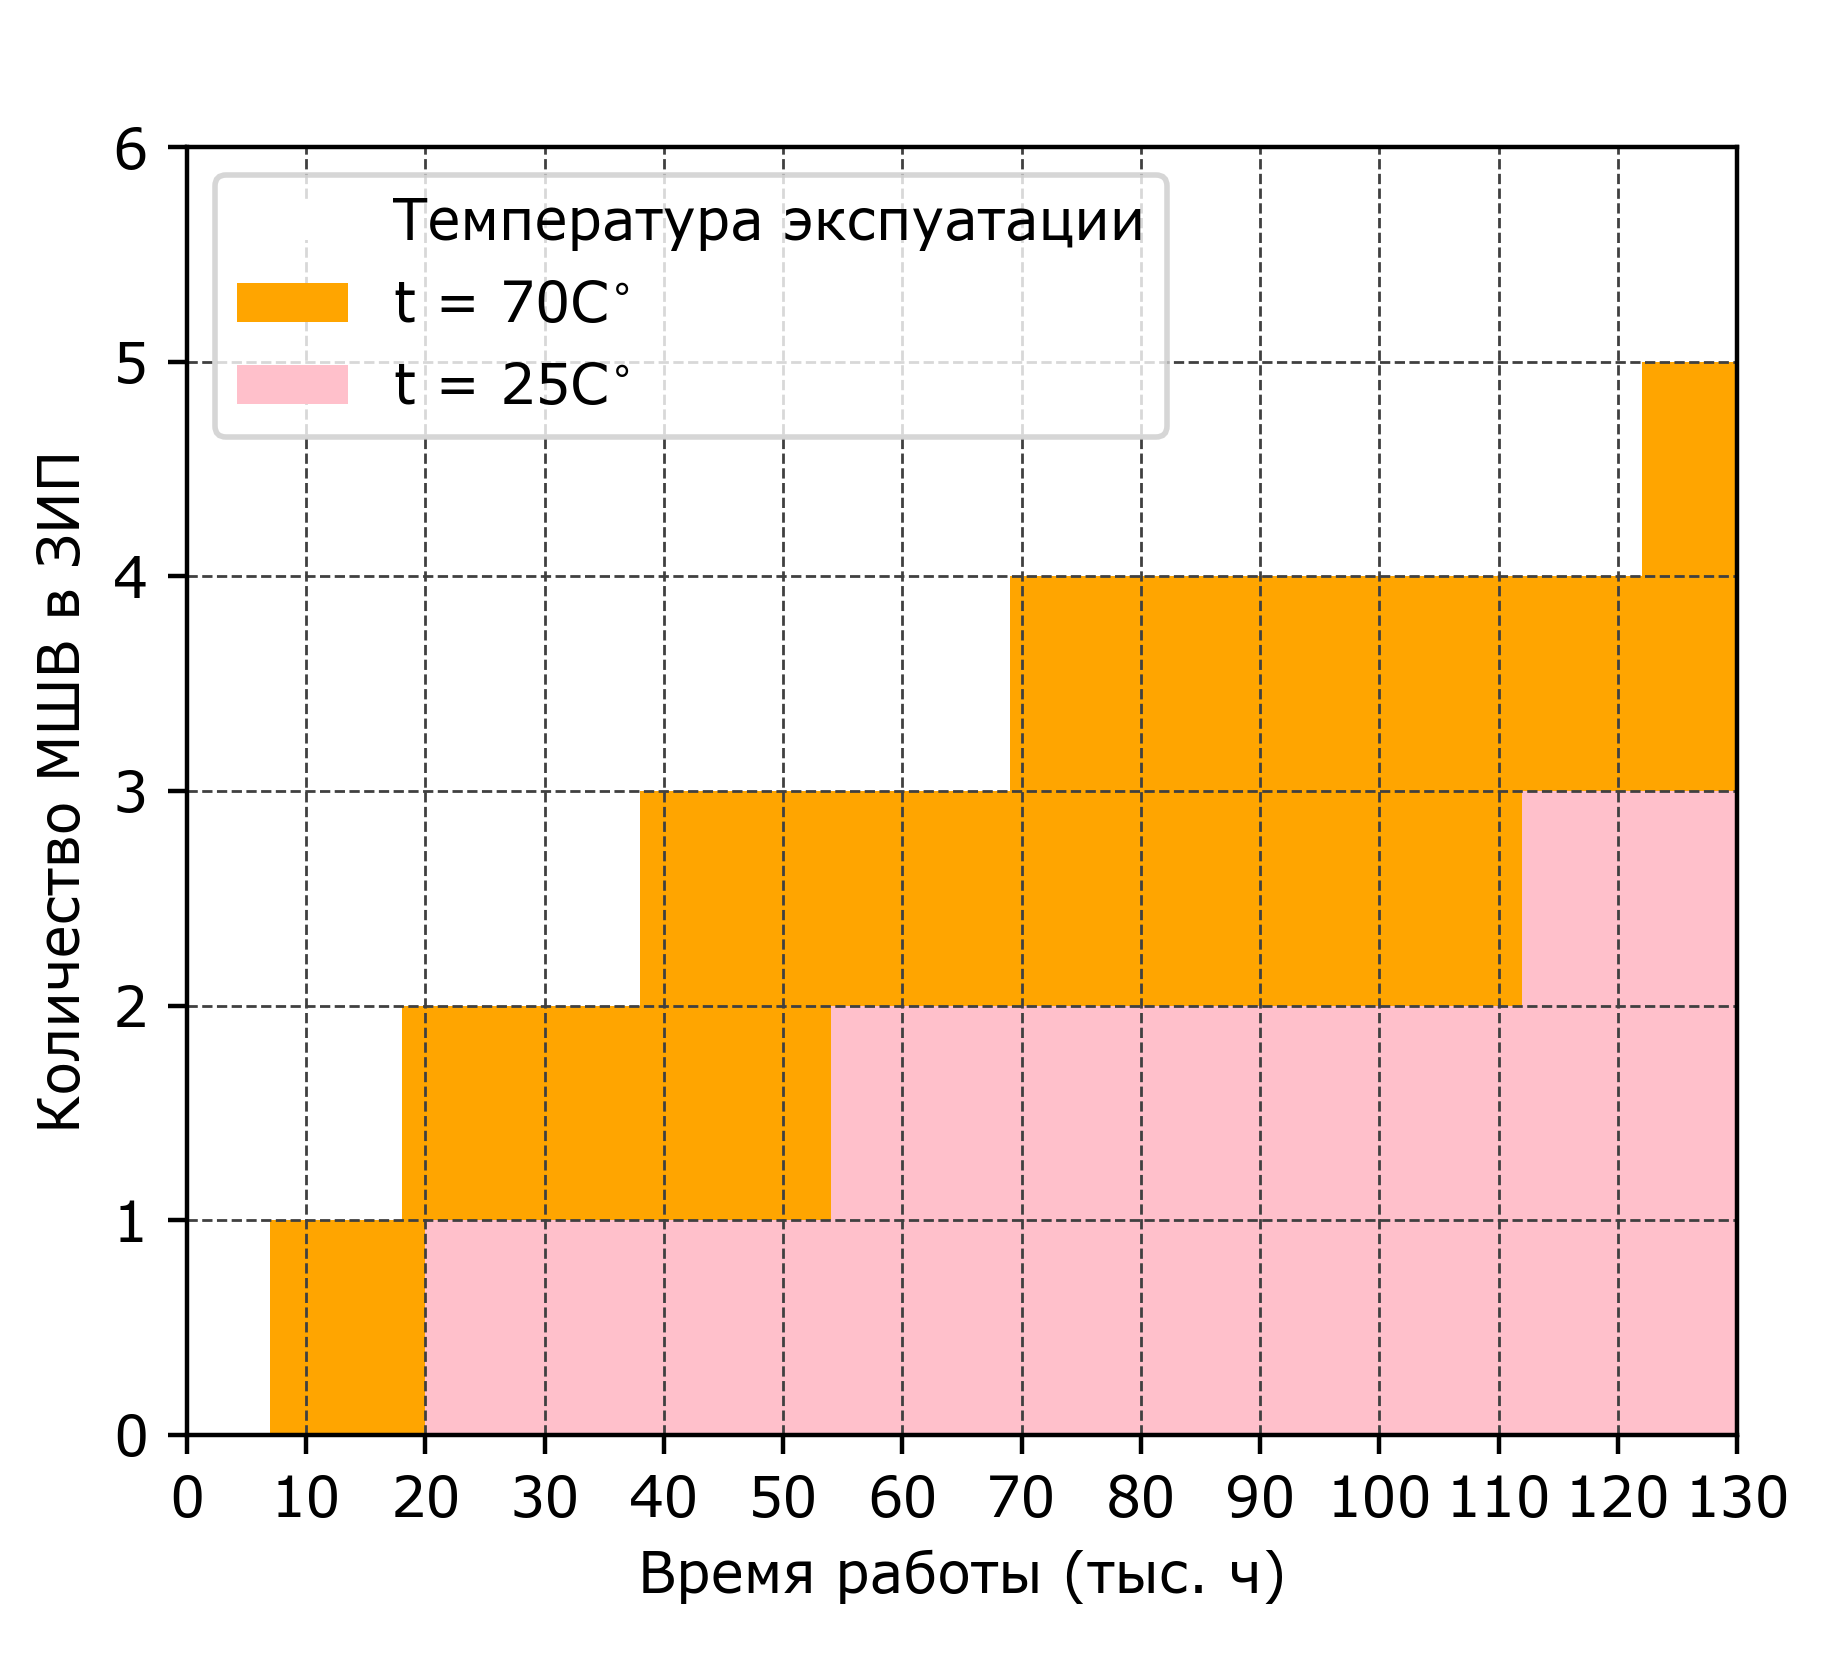
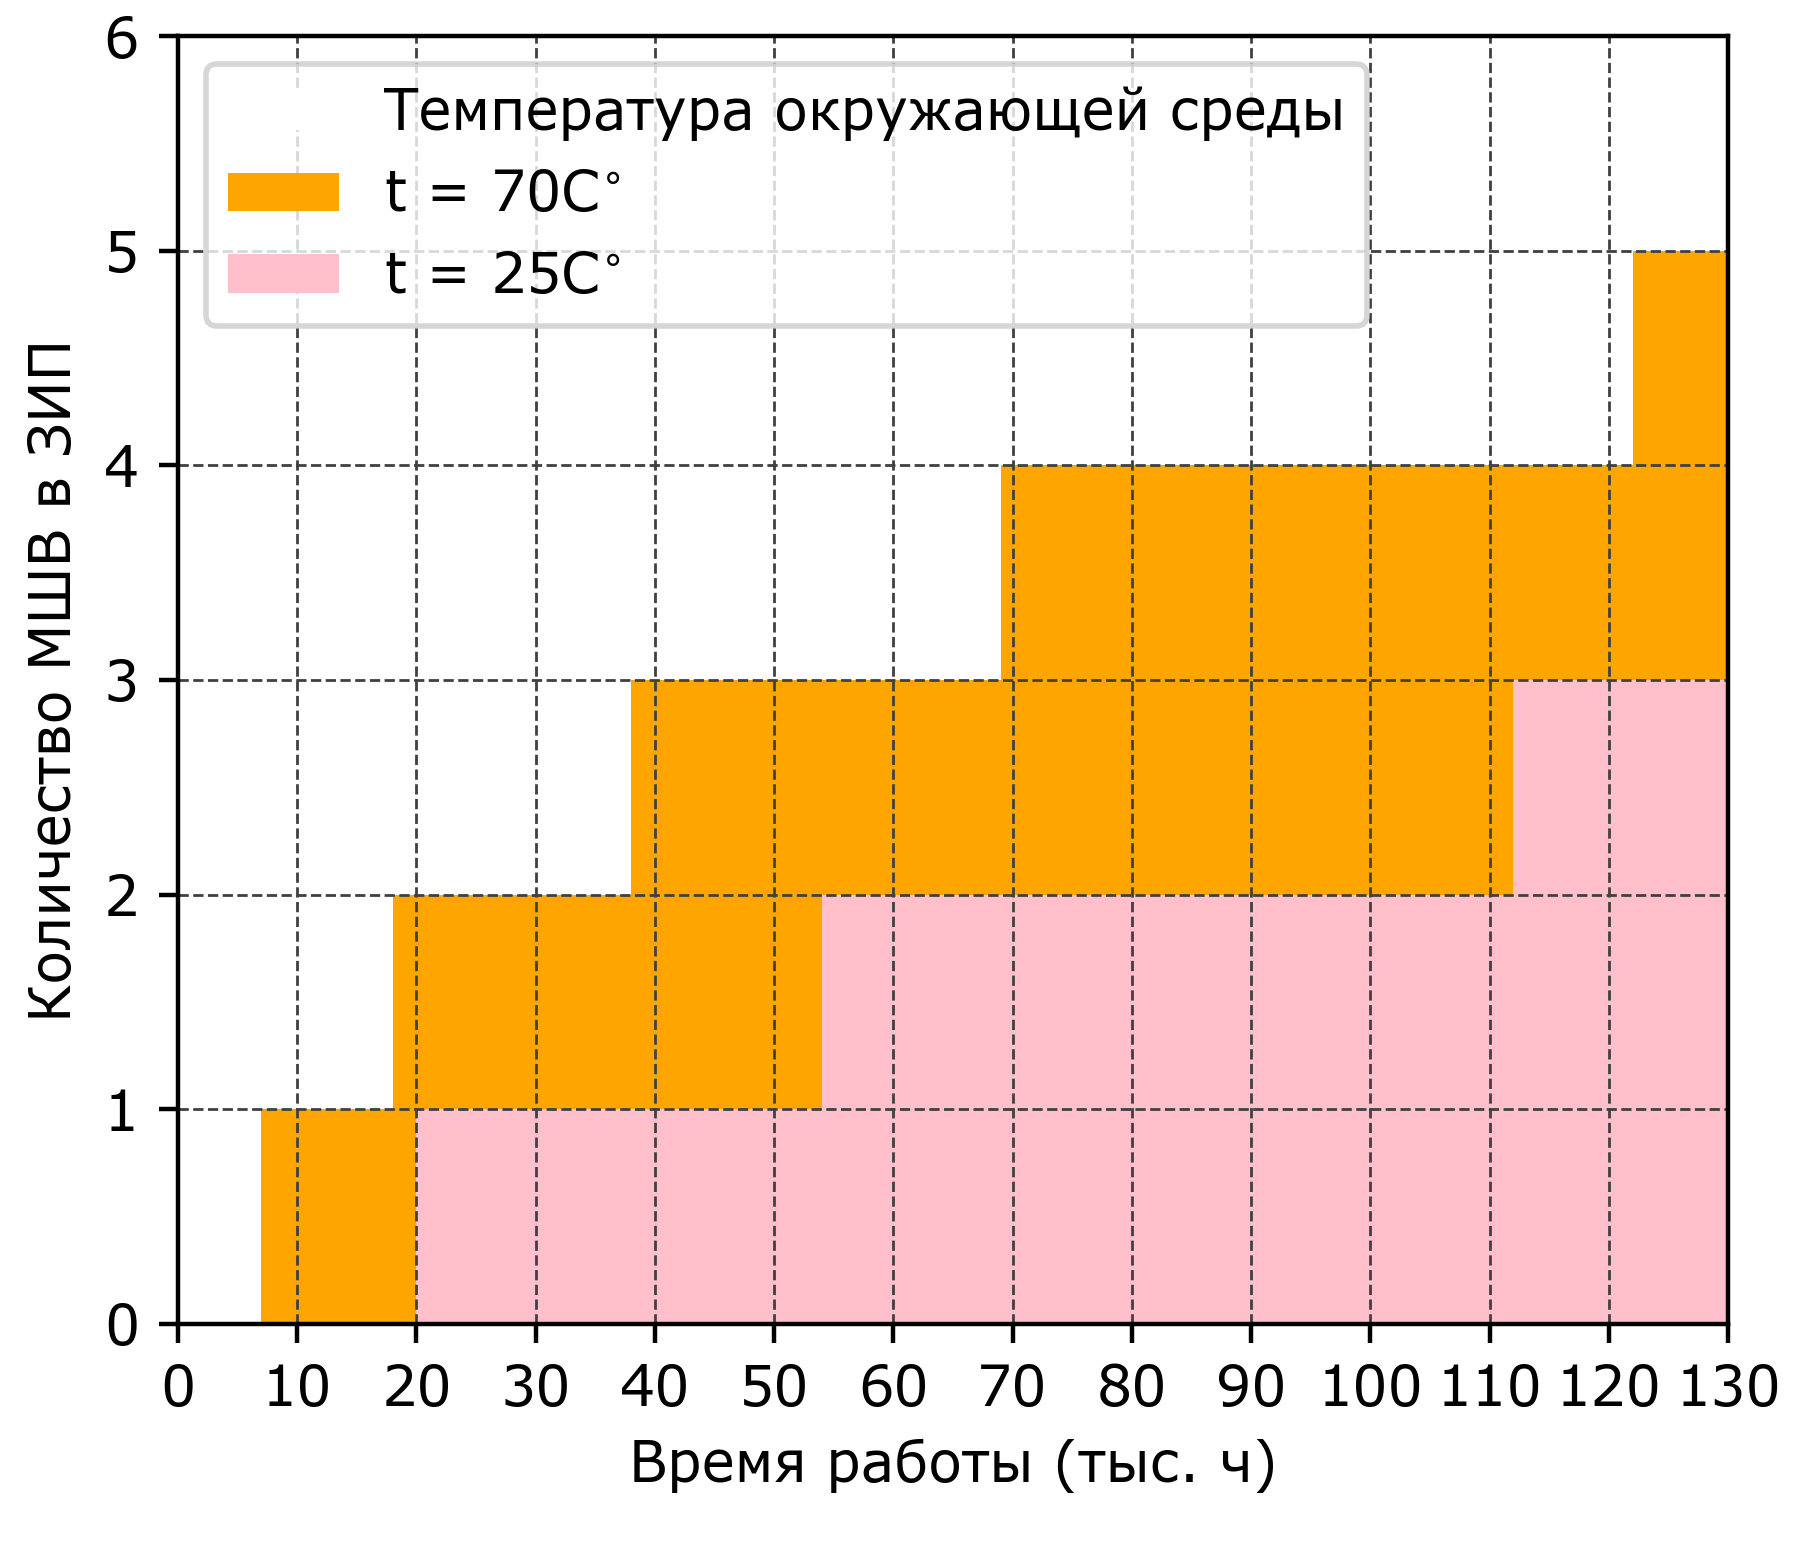
Обновил материал

diff --git a/main.py b/main.py
@@ -25,10 +25,8 @@ rc('font', **font)
 В Части 1 программы введены коэффициенты из справочника по надежности 2006 года
 Сначала приводится массив коэффициентов для температуры эксплуатации 25, 30, 35, 40, 45, 50, 55, 60, 65, 70
 Затем идут базовые значения.
-Конечнаый блок - блок вычисления потоков отказов для каждго элемента. Эти данные нужны для вычисления потока отказов 
+Конечный блок - блок вычисления потоков отказов для каждго элемента. Эти данные нужны для вычисления потока отказов 
 всего модуля при расчете запасов ЗИП
- 
-Эту часть предстоит расширить при появлении новых компонентов. 
 
 Во Части 2 все коэффициенты умножаются и для каждого элемента получается 10 значений ВБР (для 10 коэфициентов) 
 для каждой температуры.

diff --git a/MSHV.py b/MSHV.py
@@ -49,7 +49,6 @@ rc('font', **font)
 Часть 5 Вычисление необходимого ЗИП
 Вычиления делаются в соотвесвти с ГОСТ РВ 27.3.03-2005 по формуле 9.3 для разного времени пополнения ЗИП 
 
-Часть 6 построение различного вида графиков'''
 ###########################
 # Часть 1
 ###########################
@@ -78,7 +77,7 @@ zip = np.zeros(len(Z))
 # D_MCHV_ZIP_TEM = np.ones(len(Z))
 COUNT_ZIP = np.zeros(len(Z))
 DZIP = np.zeros(len(Z))
-k = 1 # неснижаемый запас
+
 # D_MCHV_ZIP = [np.zeros(Z)]
 #######################
 # данные из справочника
@@ -319,9 +318,10 @@ for x in range(len(G_RZ2)):
                 G_D4[x] + \
                 G_T1[x] + G_T1[x] + G_T1[x] + G_T1[x] + G_T1[x] + \
                 G_TR[x]
+k = 2  # неснижаемый запас
 for y in range(len(R)):
     a[y] = G_MAZH[y] * 5000
-    n = 2  # начнем 0
+    n = 3  # начнем 0
     while R[y] >= 10E-7:
         R[y] = -math.log(1 - a[y] ** (k + 2) / (a[y] ** (k + 2) + (n - k) * (1 + a[y]) ** (k + 1)))
         zip[y] = n

diff --git a/zip_real.py b/zip_real.py
@@ -1,6 +1,5 @@
 # coding=utf-8
-# создано сотрудниками АО "НИИЧаспром"
-# Данная программа предназначена для анализа надежности радиоэлектронных модулей, выполн
+# программа предназначена для построение графика объема ЗИП
 # !pip install brewer2mpl
 #
 # Import Data
@@ -48,7 +47,7 @@ for i in range(len(T)):
     ax1.bar(index[i], COUNT_ZIP[i, 0], 1, align='edge', color='pink')
 # два последних значения выводим отдельно для корректного отображения легенды
 
-ax1.bar(130, COUNT_ZIP[130, 9], 1, align='edge', color='1', label=u"Температура экспуатации")
+ax1.bar(130, COUNT_ZIP[130, 9], 1, align='edge', color='1', label=u"Температура окружающей среды")
 ax1.bar(130, COUNT_ZIP[130, 9], 1, align='edge', color='orange', label='t = 70' + r'C$^{\circ}$')
 ax1.bar(130, COUNT_ZIP[130, 0], 1, align='edge', color='pink', label='t = 25' + r'C$^{\circ}$')
 

diff --git a/README.md b/README.md
@@ -1,1 +1,65 @@
 # reliability5
+# Программа создана сотрудниками АО "НИИЧаспром"  и предназначена для анализа надежности радиоэлектронных модулей
+##модуль MSHV.py
+
+В Части 1 программы введены коэффициенты из справочника по надежности 2006 года
+Сначала приводится массив коэффициентов для температуры эксплуатации 25, 30, 35, 40, 45, 50, 55, 60, 65, 70
+Затем идут базовые значения.
+Конечный блок - блок вычисления потоков отказов для каждго элемента. Эти данные нужны для вычисления потока отказов 
+всего модуля при расчете запасов ЗИП
+ 
+Эту часть предстоит расширить при появлении новых компонентов. 
+
+Во Части 2 все коэффициенты умножаются и для каждого элемента получается 10 значений ВБР (для 10 коэфициентов) 
+для каждой температуры.
+
+В Части 3 формируются составы модуле, всего в данной программе их два - МШВ без мажорирования и с мажорированием.
+
+В Части 4 вычисляется ВБР для каждого из четырех случаев (на выходе для каждого случая получается двуменый массив
+где по одной оси зависимость ВБР от времени, по другой от температуры ) 
+- без мажорирования
+- с мажорированием
+- дублирование без мажорирования
+- дублирование с мажорированием
+
+Часть 5 Вычисление необходимого ЗИП
+Вычиления делаются в соотвесвти с ГОСТ РВ 27.3.03-2005 по формуле 9.3 для разного времени пополнения ЗИП 
+
+### MSHV сохраняет следующие данные:
+T.npy - массив времени 90000 ч
+
+T15.npy - массив времени 150000 ч
+
+COUNT_ZIP.npy - количество модулей ЗИП
+
+VBR.npy - ВБР модуля без дублирования и мажорирования
+
+VBR_D.npy - ВБР модуля с дублированием без мажорирования
+
+VBR_MAZH.npy - ВБР модуля с мажорированием без дублирования
+
+VBR_D_MAZH.npy - ВБР модуля с дублированием и мажорированием
+
+MCHV.npy - для одного значения времени (ВБР(t=25), ... , ВБР(t=70)) МШВ без мажорировани
+
+MCHV_MAZH.npy - для одного значения времени (ВБР(t=25), ... , ВБР(t=70)) МШВ с мажорированием
+
+D_MCHV.npy - для одного значения времени (ВБР(t=25), ... , ВБР(t=70)) МШВ дублирование без мажорировани
+
+D_MCHV_MAZH.npy  # для одного значения времени (ВБР(t=25), ... , ВБР(t=70)) МШВ дублирование с мажорированием
+
+### модуль main.py
+
+построение графиков:
+
+#### 1. ВБР 
+- без резервирования
+- с мажорированием
+- дублирование без мажорирования
+- дублирование с мажорированием
+
+#### 2 ВБР для диапазона температур 25 - 75
+
+## модуль zip_real
+
+Построение графика для ЗИП
